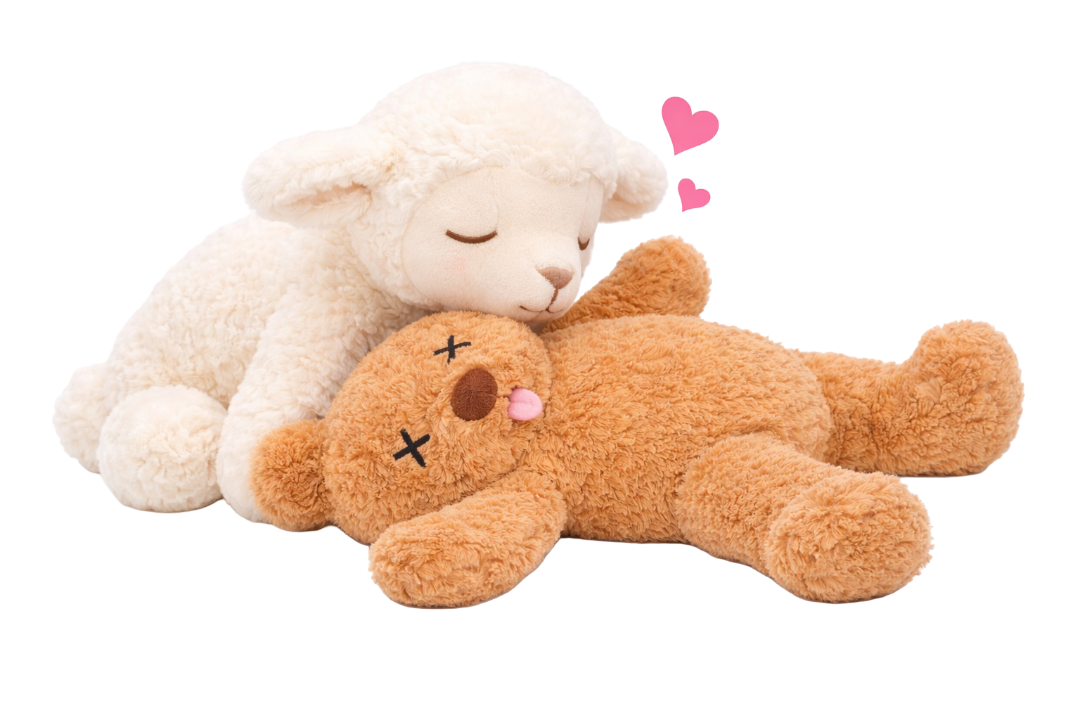
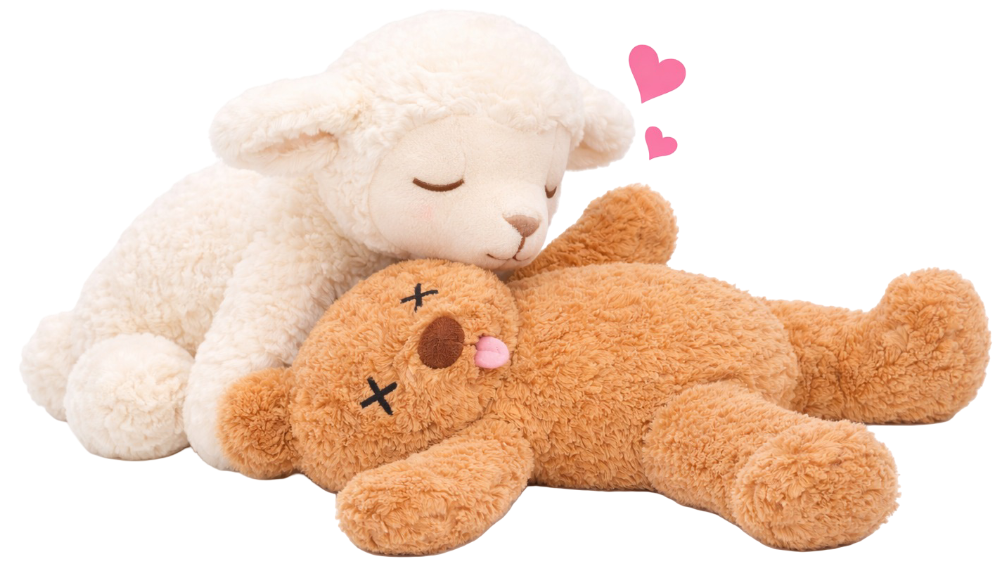
Introduce scaling and add new sprites

diff --git a/script.js b/script.js
@@ -200,13 +200,38 @@ function goToState(stateKey) {
     } else {
 
       if (state.barthyImage) {
-        setImageSafely(barthyImage, state.barthyImage, showBarthy);
-      } else {
+
+        barthyImage.classList.remove("scale-small", "scale-large");
+
+        setImageSafely(barthyImage, state.barthyImage, () => {
+
+          showBarthy();
+
+          if (state.barthyScale) {
+            barthyImage.classList.add(state.barthyScale);
+          }
+
+        });
+
+      }
+      else {
         hideBarthy();
       }
 
       if (state.meepsImage) {
-        setImageSafely(meepsImage, state.meepsImage, showMeeps);
+
+        meepsImage.classList.remove("scale-small", "scale-large");
+
+        setImageSafely(meepsImage, state.meepsImage, () => {
+
+          showMeeps();
+
+          if (state.meepsScale) {
+            meepsImage.classList.add(state.meepsScale);
+          }
+
+        });
+
       } else {
         hideMeeps();
       }
@@ -270,13 +295,19 @@ const states = {
   intro: {
     barthyImage: "assets/barthy.png",
     meepsImage: "assets/meeps.png",
+    barthyScale: "scale-large",
+    meepsScale: "scale-small",
     speaker: "barthy",
     text: "Meepssss",
     next: "meeps_hi"
   },
 
   meeps_hi: {
-    keepCharacters: true,
+    //keepCharacters: true,
+    barthyImage: "assets/barthy.png",
+    meepsImage: "assets/meeps_wave.png",
+    barthyScale: "scale-large",
+    meepsScale: "scale-small",
     speaker: "meeps",
     text: "Hi Barthy",
     next: "barthy_meeps_walking"
@@ -285,7 +316,8 @@ const states = {
   barthy_meeps_walking: {
     barthyImage: "assets/barthy_walking.png",
     meepsImage: "assets/meeps_walking.png",
-
+    barthyScale: "scale-large",
+    meepsScale: "scale-small",
     animation: {
       type: "walkTogether",
       duration: 1200,
@@ -302,6 +334,8 @@ const states = {
   ask_valentine: {
     barthyImage: "assets/barthy_bouquet.png",
     meepsImage: "assets/meeps.png",
+    barthyScale: "scale-large",
+    meepsScale: "scale-small",
     speaker: "barthy",
     text: "Will you be my valentines?",
     choices: true
@@ -309,7 +343,9 @@ const states = {
 
   no_cry: {
     barthyImage: "assets/barthy_sad.png",
-    meepsImage: "assets/meeps.png",
+    meepsImage: "assets/meeps_grin.png",
+    barthyScale: "scale-large",
+    meepsScale: "scale-small",
     speaker: "barthy",
     text: "Barthy sad… Barthy lonely…",
     next: "walk_away"
@@ -317,8 +353,9 @@ const states = {
 
   walk_away: {
     barthyImage: "assets/barthy_walking_sad.png",
-    meepsImage: "assets/meeps.png",
-
+    meepsImage: "assets/meeps_grin.png",
+    barthyScale: "scale-large",
+    meepsScale: "scale-small",
     modal: {
       text: "Is Meeps really letting Barthy walk away heartbroken?",
       yes: "barthy_falling",
@@ -326,10 +363,43 @@ const states = {
     }
   },
 
+  meeps_calls_back: {
+    barthyImage: "assets/barthy_walking_sad.png",
+    meepsImage: "assets/meeps_wave.png",
+    barthyScale: "scale-large",
+    meepsScale: "scale-small",
+    speaker: "meeps",
+    text: "Wait Barthy, come back!",
+    next: "barthy_returns"
+  },
+
+  barthy_returns: {
+    barthyImage: "assets/barthy_walking_happy.png",
+    meepsImage: "assets/meeps_grin.png",
+    barthyScale: "scale-large",
+    meepsScale: "scale-small",
+    speaker: "meeps",
+    text: "Ask me again.. Hehhe",
+    next: "ask_valentine"
+  },
+
   barthy_falling: {
     barthyImage: "assets/barthy_falling.png",
-    meepsImage: "assets/meeps_walking.png",
+    meepsImage: "assets/meeps_grin.png",
+    barthyScale: "scale-large",
+    meepsScale: "scale-small",
+    animation: {
+      type: "fall",
+      duration: 800,
+      next: "barthy_fell"
+    }
+  },
 
+  barthy_fell: {
+    barthyImage: "assets/barthy_fall.png",
+    meepsImage: "assets/meeps_shocked.png",
+    barthyScale: "scale-large",
+    meepsScale: "scale-small",
     animation: {
       type: "fall",
       duration: 800,
@@ -338,24 +408,40 @@ const states = {
   },
 
   barthy_faint: {
-    barthyImage: "assets/barthy_faint.png",
+    barthyImage: "assets/barthy_fainted.png",
     meepsImage: "assets/meeps_shocked.png",
-
+    barthyScale: "scale-large",
+    meepsScale: "scale-small",
     modal: {
       text: "Is Meeps gonna help Barthy????",
-      yes: "kiss_repeat",
+      yes: "meeps_approach_barthy",
       no: "end_sad"
     }
   },
 
+  meeps_approach_barthy: {
+    barthyImage: "assets/barthy_fainted.png",
+    meepsImage: "assets/meeps_walking.png",
+    barthyScale: "scale-large",
+    meepsScale: "scale-small",
+    next: "kiss_repeat"
+  },
+
   kiss_repeat: {
-    sceneImage: "assets/kiss.png",
+    sceneImage: "assets/meeps_kissing_barthy.png",
+    next: "embrace"
+  },
+
+  embrace: {
+    sceneImage: "assets/embrace.png",
     next: "ask_valentine_again"
   },
 
   ask_valentine_again: {
-    barthyImage: "assets/barthy_neutral.png",
-    meepsImage: "assets/meeps_tease.png",
+    barthyImage: "assets/barthy.png",
+    meepsImage: "assets/meeps_grin.png",
+    barthyScale: "scale-large",
+    meepsScale: "scale-small",
     speaker: "meeps",
     text: "Ask me again.. hehe",
     next: "ask_valentine"
@@ -364,14 +450,18 @@ const states = {
   yes_happy: {
     barthyImage: "assets/barthy_excited.png",
     meepsImage: "assets/meeps_happy.png",
+    barthyScale: "scale-large",
+    meepsScale: "scale-small",
     speaker: "barthy",
-    text: "Yaay! I'm so excited to be your valentines",
+    text: "Yaay! I'm so excited to be spending valentines with you",
     next: "end_happy"
   },
 
   end_happy: {
     barthyImage: "assets/barthy_happy.png",
     meepsImage: "assets/meeps_happy.png",
+    barthyScale: "scale-large",
+    meepsScale: "scale-small",
     speaker: "meeps",
     text: "Pottery. Candles. Dinner. Valentines together"
   },
@@ -379,6 +469,8 @@ const states = {
   end_sad: {
     barthyImage: "assets/barthy_sad.png",
     meepsImage: "assets/meeps_sad.png",
+    barthyScale: "scale-large",
+    meepsScale: "scale-small",
     speaker: "barthy",
     text: "Oh well… maybe next year"
   }

diff --git a/style.css b/style.css
@@ -22,32 +22,38 @@ body {
   position: relative;
   height: 300px;
   margin-bottom: 16px;
-  display: flex;
-  align-items: flex-end;
-  justify-content: space-between;
-  padding: 0 10px;
 }
 
 /* Characters */
 
 .character {
-  max-height: 100%;
-  max-width: 100%;
-  width: auto;
-  height: auto;
+  position: absolute;
   object-fit: contain;
+  height: 260px;
+  width: auto;
   transition: transform 0.4s ease;
   opacity: 1;
   visibility: visible;
   /* transition: opacity 0.15s ease, transform 0.4s ease; */
 }
 
-.character.left,
-.character.right {
-  align-self: flex-end;
+.character.left {
+  left: -200px;
 }
 
-/* Scene image (hug, kiss, etc.) */
+.character.right {
+  right: -200px;
+}
+
+.character.scale-small {
+  transform: scale(0.9);
+}
+
+.character.scale-large {
+  transform: scale(1.0);
+}
+
+/* Scene image */
 
 .scene-image {
   position: absolute;
@@ -149,11 +155,11 @@ button {
 }
 
 @keyframes walkRight {
-  to { transform: translateX(80px); }
+  to { transform: translateX(250px); }
 }
 
 @keyframes walkLeft {
-  to { transform: translateX(-80px); }
+  to { transform: translateX(-250px); }
 }
 
 /* Modal */
